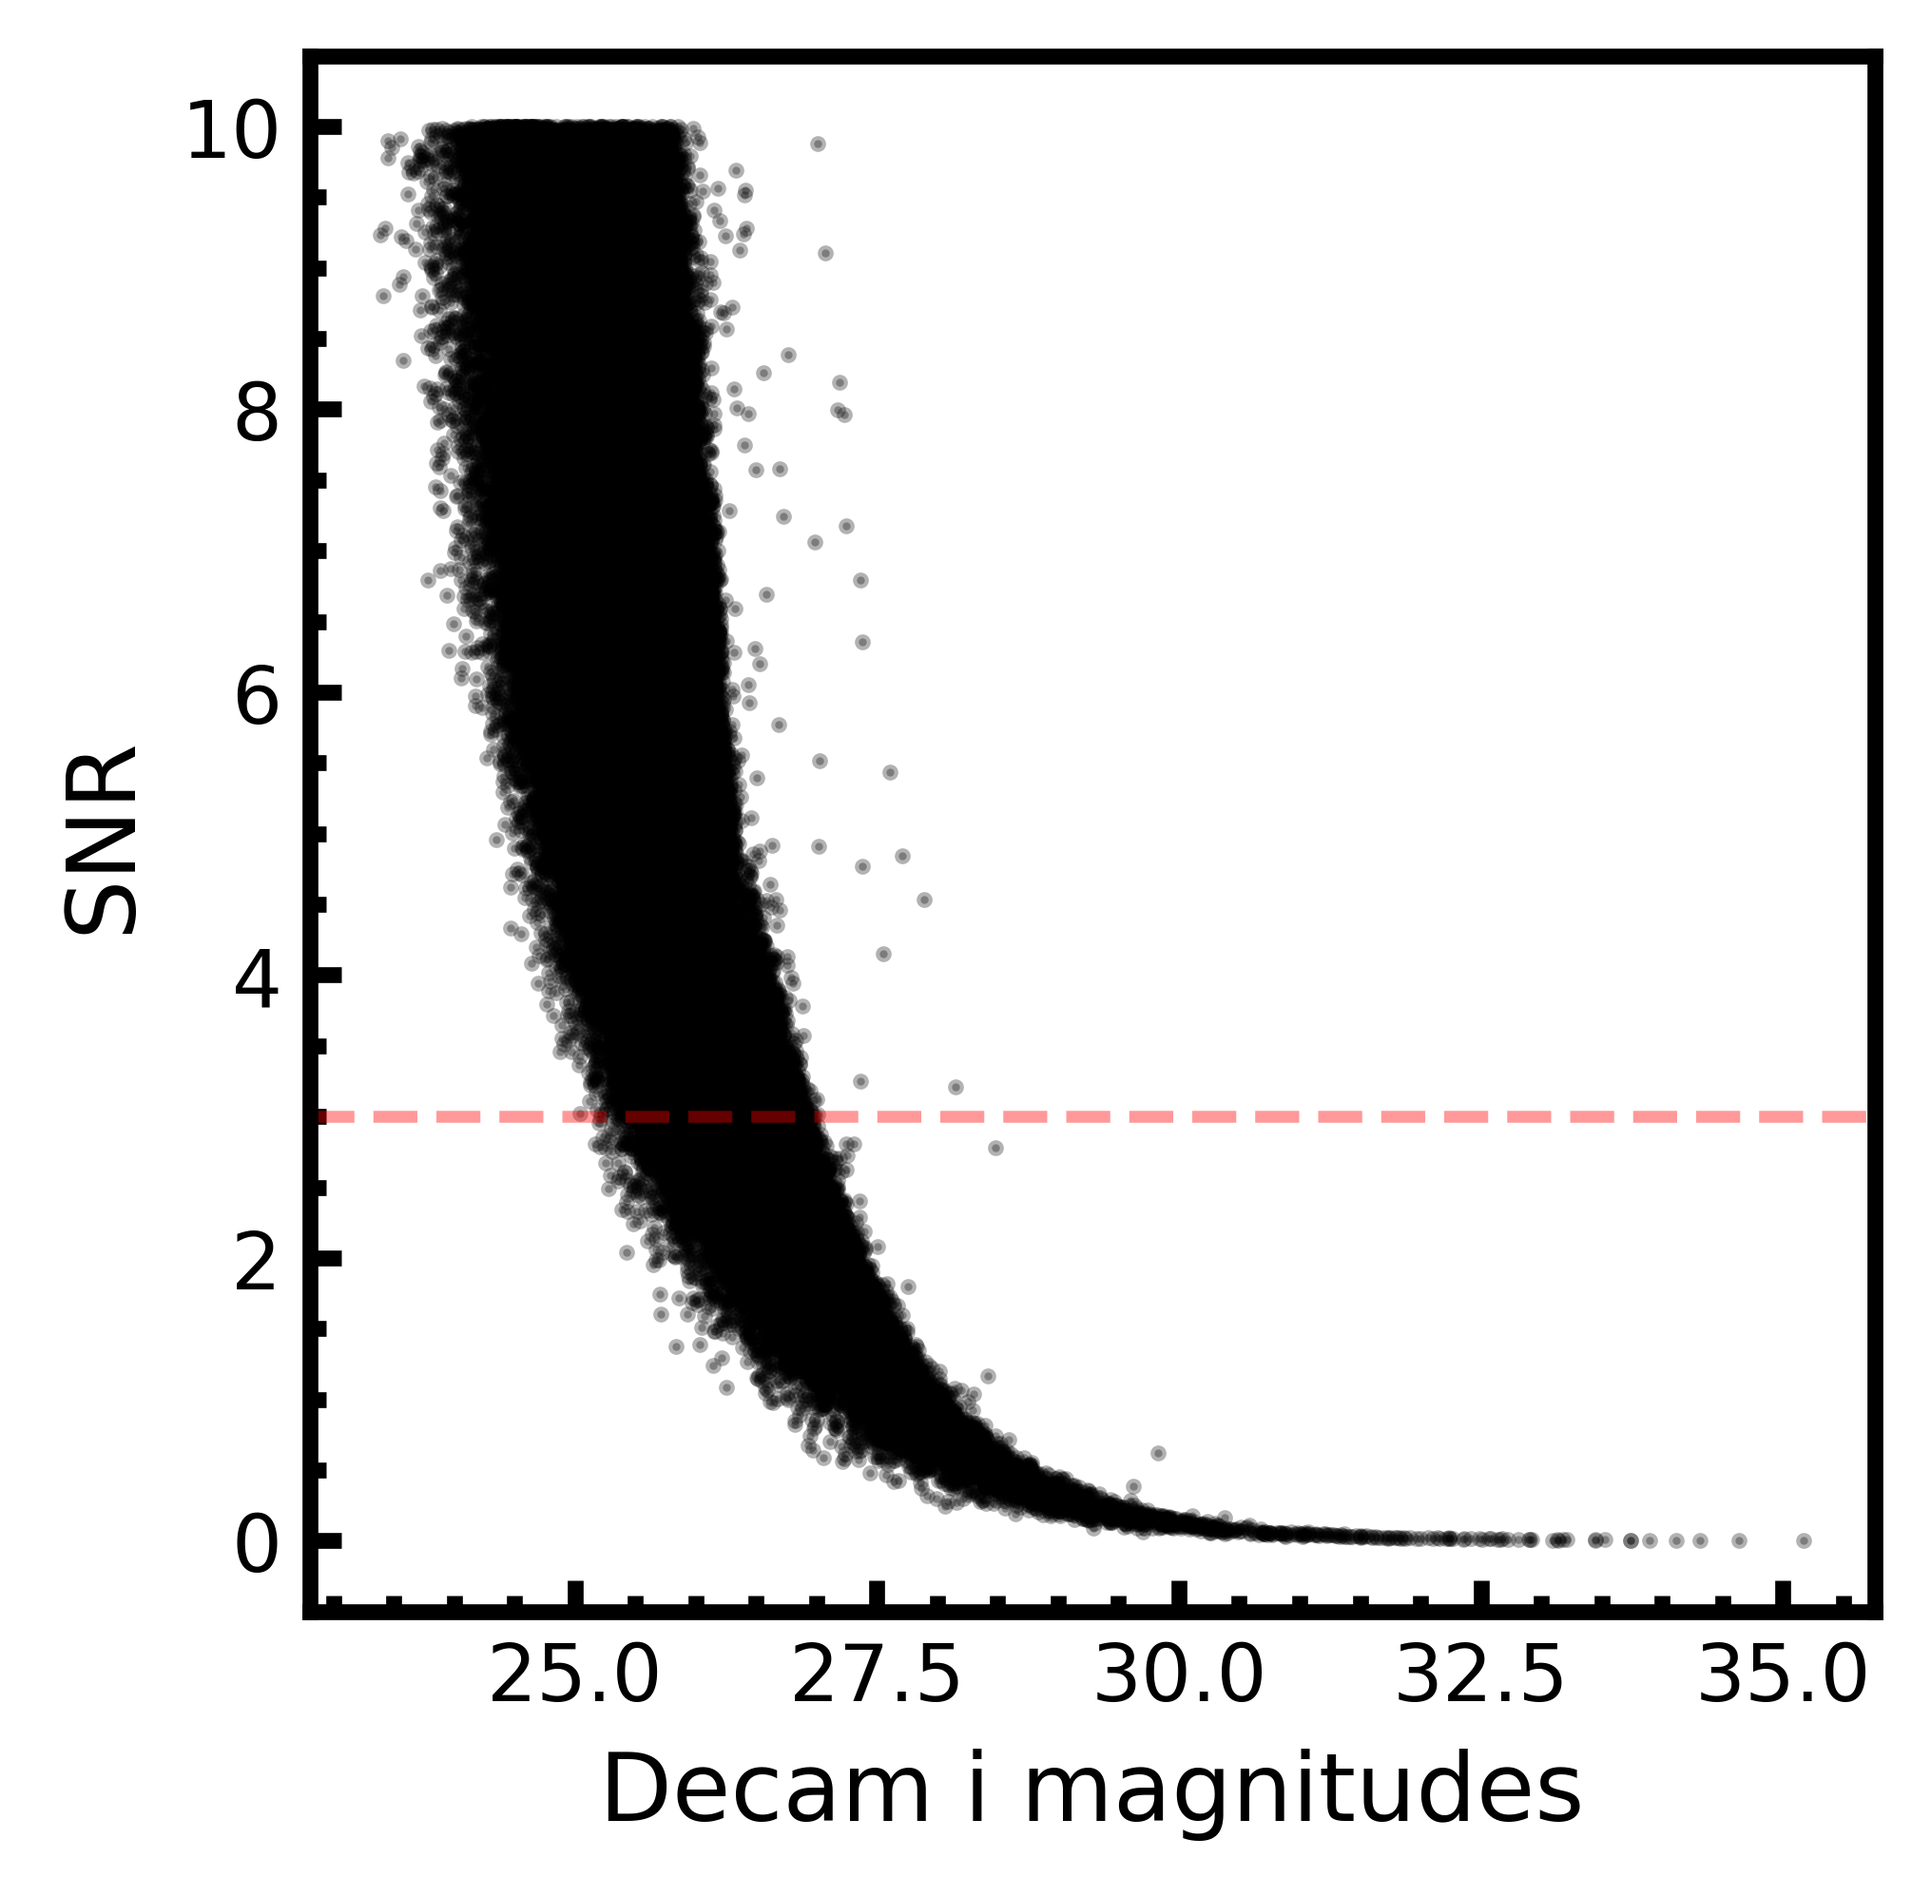
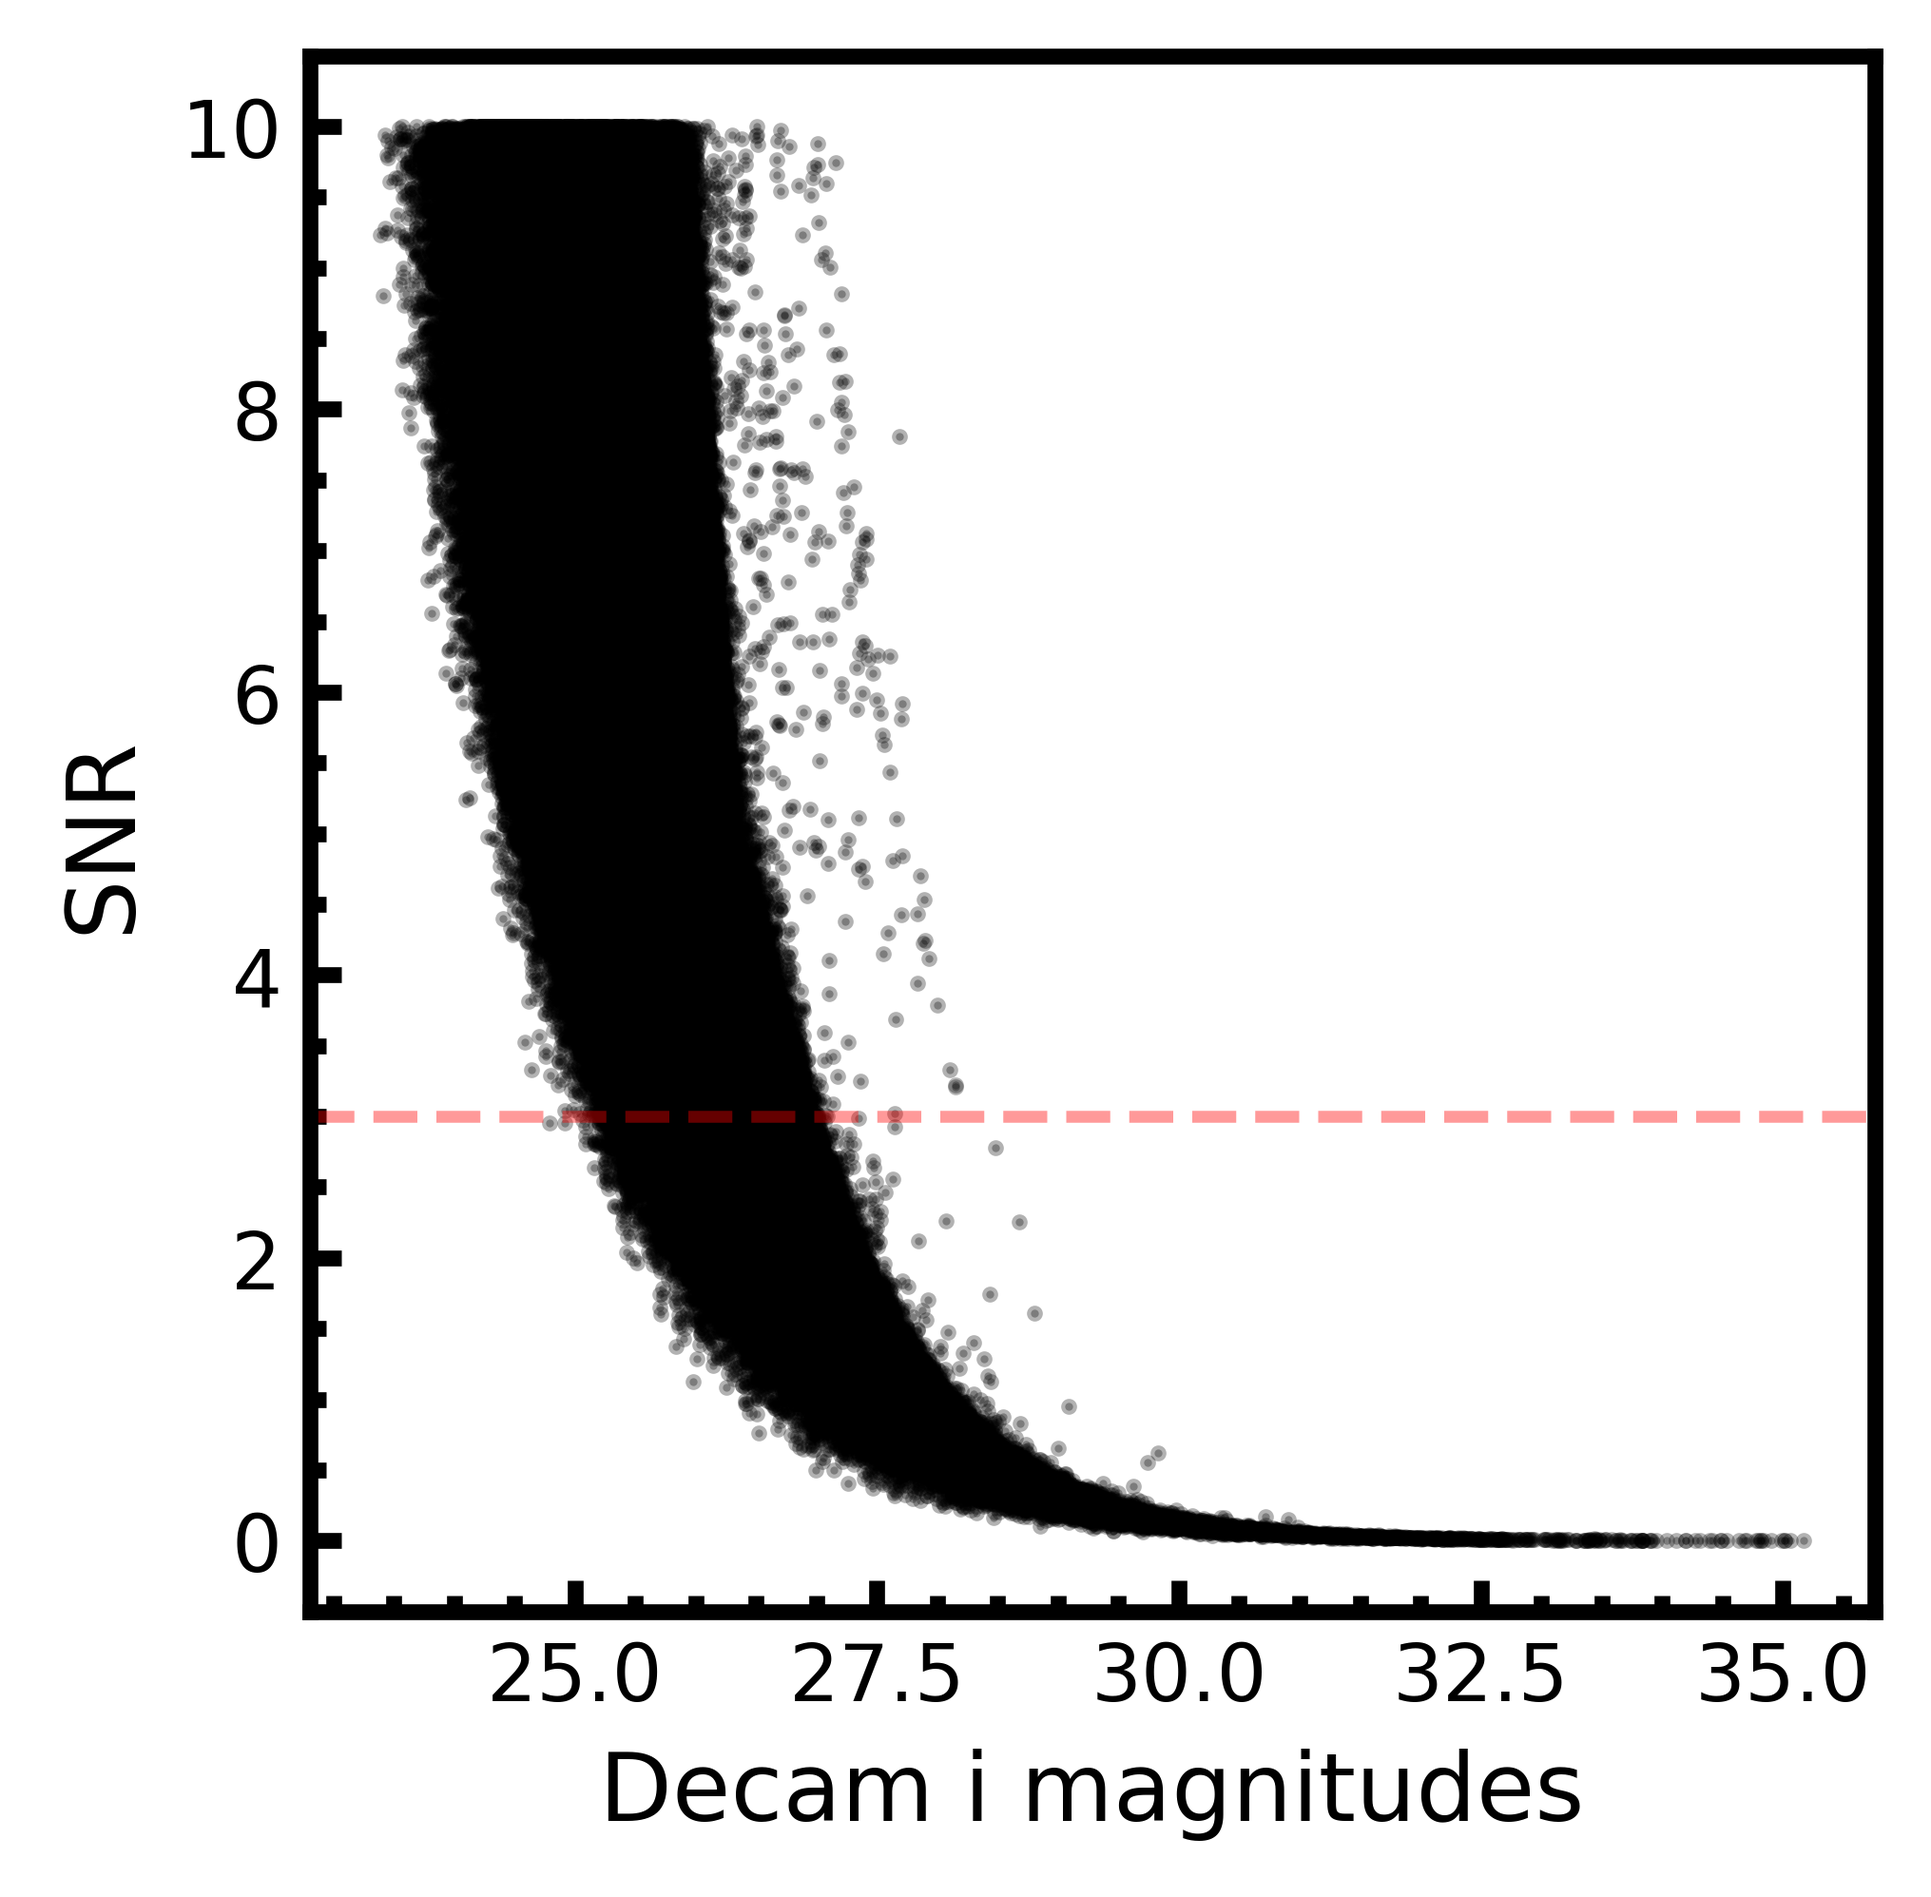
Added depth distribution to main

Changed region(s): [[0.1861, 0.0622, 0.6824, 0.8391], [0.7134, 0.808, 0.9306, 0.8391]]

diff --git a/main.py b/main.py
@@ -172,15 +172,21 @@ def plot_depth(
     decam_mag = decam_catalog.catalog['MAG_BEST'].values
     mag = decam_mag + zero_point
     mag_err = decam_catalog.catalog['MAGERR_BEST'].values
-    idx = random.sample(range(len(mag)), 200000)
-    x_values, y_values = mag[idx], mag_err[idx]
-    cut_x = np.where(x_values < 50)
-    cut_y = np.where(y_values < 1000)
+    #idx = random.sample(range(len(mag)), 20000)
+    #x_values, y_values = mag[idx], mag_err[idx]
+    cut_x = np.where(mag < 50)
+    cut_y = np.where(mag_err < 1000)
     cut = np.intersect1d(cut_x, cut_y)
-    x_values, y_values = x_values[cut], y_values[cut]
+    x_values, y_values = mag[cut], mag_err[cut]
     signal_to_noise = (2.5/np.log(10))/y_values
     cut = np.where(signal_to_noise < 10)[0]
     x_values, y_values, signal_to_noise = x_values[cut], y_values[cut], signal_to_noise[cut]
+    hist_cut = np.where((signal_to_noise >= 2.8) & (signal_to_noise <= 3.2))[0]
+    plotting.start_plot('Magnitudes', 'Counts')
+    plt.hist(x_values[hist_cut], bins=np.arange(24.5, 28, 0.2), histtype='step', lw=2, color='r')
+    plotting.end_plot('Depth_Distribution.png')
+    #plt.show()
+
     plotting.start_plot(x_label=x_label, y_label=y_label)
     plt.scatter(x_values, signal_to_noise, s= 1, color='k', alpha=0.3)
     plt.axhline(3, ls='--', lw=1.5, color='r', alpha=0.4)
